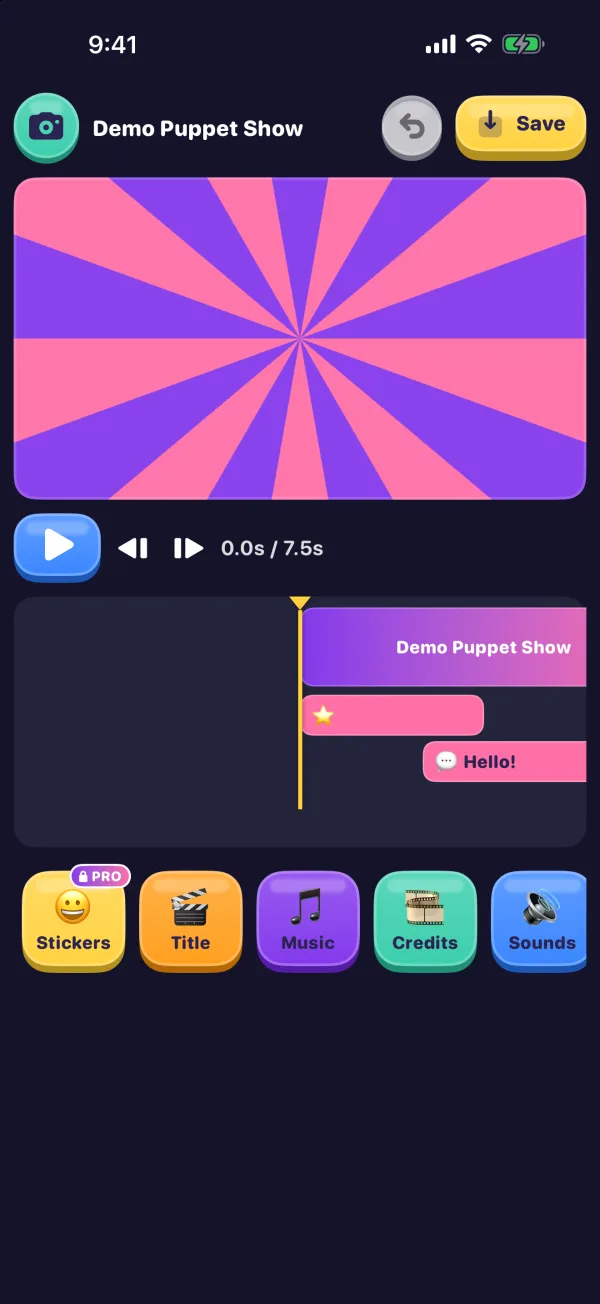
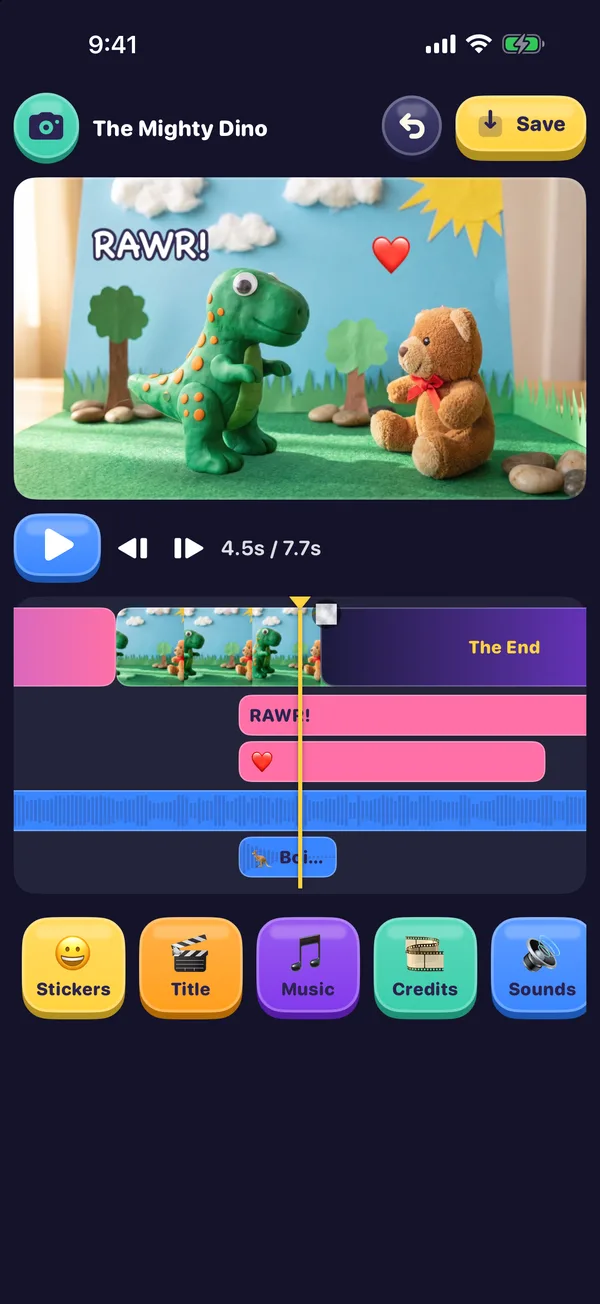
Show the App Store screenshots and the Mighty Dino footage
- The gallery is now the listing's six screenshots, in listing order,
  at 720 wide, with alt text that reads their headlines and screens.
  The home page's JSON-LD lists them as the app's screenshots.
- The hero's phones, the stage photo (Big screen, Free and Pro cards)
  and the Auto Snap crop come from the raw screens and toy-set photo
  behind those screenshots, replacing the Simulator's cartoon stage.
- og-image.jpg is rebuilt with the new screens and says "Free on the
  App Store." instead of "Coming soon."
- The five Simulator screens nothing uses any more are gone, and the
  README says where each image comes from.

diff --git a/index.html b/index.html
@@ -42,6 +42,14 @@
     "downloadUrl": "https://apps.apple.com/us/app/stop-motion-movie-maker/id6815898667",
     "installUrl": "https://apps.apple.com/us/app/stop-motion-movie-maker/id6815898667",
     "offers": { "@type": "Offer", "price": "0", "priceCurrency": "USD" },
+    "screenshot": [
+      "https://stopmotionmoviemaker.com/assets/img/shot-01-turn-toys-into-movies.webp",
+      "https://stopmotionmoviemaker.com/assets/img/shot-02-upright-or-sideways.webp",
+      "https://stopmotionmoviemaker.com/assets/img/shot-03-no-hands-in-the-shot.webp",
+      "https://stopmotionmoviemaker.com/assets/img/shot-04-make-it-a-real-movie.webp",
+      "https://stopmotionmoviemaker.com/assets/img/shot-05-roll-the-credits.webp",
+      "https://stopmotionmoviemaker.com/assets/img/shot-06-screen-time-well-spent.webp"
+    ],
     "author": { "@type": "Organization", "name": "CaLa Studios LLC", "email": "support@calastudios.app" }
   }
   </script>
@@ -98,7 +106,7 @@
         </div>
         <div class="hero-visual" aria-hidden="true">
           <div class="phone phone--a"><img src="/assets/img/screen-capture.webp" alt="" width="600" height="1304" fetchpriority="high"></div>
-          <div class="phone phone--b"><img src="/assets/img/screen-credits.webp" alt="" width="600" height="1304" fetchpriority="high"></div>
+          <div class="phone phone--b"><img src="/assets/img/screen-editor.webp" alt="" width="600" height="1304" fetchpriority="high"></div>
           <div class="chip chip--tl"><span class="dot">👻</span>The ghost shows your last picture</div>
           <div class="chip chip--br"><span class="dot">✋</span>Auto Snap waits for hands</div>
         </div>
@@ -177,7 +185,7 @@
               <p>Move something, take your hands away, and Auto Snap takes the picture once everything holds still, then plays the camera sound. Nobody has to touch the phone, so it never wobbles.</p>
               <p>It won't take the same picture twice, and it waits while a hand is still in the picture. The hand check runs on your iPhone with Apple's Vision. Snap and Oops keep working the whole time.</p>
             </div>
-            <div class="shot-frame"><img src="/assets/img/autosnap-hand.webp" alt="Auto Snap in the app: a hand is still holding the purple puppet, and the app says “Hands away when you're done”" width="800" height="448" loading="lazy"></div>
+            <div class="shot-frame"><img src="/assets/img/autosnap-hand.webp" alt="Auto Snap in the app: a hand is still holding the clay dinosaur, and the app says “Hands away when you're done”" width="800" height="450" loading="lazy"></div>
           </article>
 
           <article class="card span-2 reveal">
@@ -388,14 +396,13 @@
         </div>
       </div>
       <div class="container">
-        <ul class="shots" aria-label="Screens from the app">
-          <li><figure class="shot"><img src="/assets/img/screen-onboarding.webp" alt="The first screen: a teddy bear and “Move your puppet a tiny bit”" width="600" height="1304" loading="lazy"><figcaption>Three steps to learn it</figcaption></figure></li>
-          <li><figure class="shot"><img src="/assets/img/screen-capture.webp" alt="The camera screen: the live stage, the last four pictures, a big green SNAP button and Oops, Play, Ghost and Done" width="600" height="1304" loading="lazy"><figcaption>Snap, Oops, Play, Ghost, Done</figcaption></figure></li>
-          <li><figure class="shot"><img src="/assets/img/screen-autosnap.webp" alt="Auto Snap waiting while a hand is still in the picture" width="600" height="1304" loading="lazy"><figcaption>Auto Snap waits for hands</figcaption></figure></li>
-          <li><figure class="shot"><img src="/assets/img/screen-editor.webp" alt="The editor: a title card, the timeline, and buttons for Stickers, Title, Music, Credits and Sounds" width="600" height="1304" loading="lazy"><figcaption>Decorate your movie</figcaption></figure></li>
-          <li><figure class="shot"><img src="/assets/img/screen-titles.webp" alt="The Titles sheet: a live preview of the opening title with backgrounds, colors and letters to choose from" width="600" height="1304" loading="lazy"><figcaption>A title with a live preview</figcaption></figure></li>
-          <li><figure class="shot"><img src="/assets/img/screen-credits.webp" alt="Rolling credits: Directed by Maya, Starring T-Rex and Mr. Bear, with the song credited" width="600" height="1304" loading="lazy"><figcaption>Rolling credits</figcaption></figure></li>
-          <li><figure class="shot"><img src="/assets/img/screen-music.webp" alt="The Music sheet: My Songs and the songs that come with the app" width="600" height="1304" loading="lazy"><figcaption>Songs, and your own</figcaption></figure></li>
+        <ul class="shots" aria-label="App Store screenshots">
+          <li class="shot"><img src="/assets/img/shot-01-turn-toys-into-movies.webp" alt="Turn toys into movies, easily: the camera screen with a clay dinosaur and a teddy bear on the stage, the last four pictures, the big SNAP button, and Oops, Play, Ghost and Done" width="720" height="1558" loading="lazy"></li>
+          <li class="shot"><img src="/assets/img/shot-02-upright-or-sideways.webp" alt="Upright or sideways, works both ways: the camera screen on an iPhone held upright and on its side" width="720" height="1558" loading="lazy"></li>
+          <li class="shot"><img src="/assets/img/shot-03-no-hands-in-the-shot.webp" alt="No hands in the shot, snaps when you let go: Auto Snap waits while a hand moves the dinosaur, saying “Hands away when you're done”" width="720" height="1558" loading="lazy"></li>
+          <li class="shot"><img src="/assets/img/shot-04-make-it-a-real-movie.webp" alt="Make it a real movie, add in music, sounds and text: the editor with “RAWR!” and a heart over the scene, the timeline, and Stickers, Title, Music, Credits and Sounds" width="720" height="1558" loading="lazy"></li>
+          <li class="shot"><img src="/assets/img/shot-05-roll-the-credits.webp" alt="Roll the credits, directed by you: the credits sheet with Directed by Maya, Starring T-Rex and Mr. Bear, and the song" width="720" height="1558" loading="lazy"></li>
+          <li class="shot"><img src="/assets/img/shot-06-screen-time-well-spent.webp" alt="Screen time well spent, no ads, ever: My Movies, with The Mighty Dino, Robot to the Rescue, Octopus Party, Space Cat and The Great Snail Race" width="720" height="1558" loading="lazy"></li>
         </ul>
         <details class="credits">
           <summary>Sound and music credits</summary>

diff --git a/assets/css/site.css b/assets/css/site.css
@@ -414,12 +414,11 @@ h2.title { font-size: clamp(2.1rem, 4.4vw, 3.2rem); letter-spacing: -0.02em; }
 }
 .shots::-webkit-scrollbar { height: 8px; }
 .shots::-webkit-scrollbar-thumb { background: rgba(255, 210, 63, 0.45); border-radius: 999px; }
-.shot { flex: 0 0 auto; width: min(64vw, 240px); scroll-snap-align: start; margin: 0; }
-.shot img { width: 100%; height: auto; border-radius: 26px; border: 5px solid #2e2c56; background: var(--stage); }
-.shot figcaption { margin-top: 12px; text-align: center; font-weight: 800; font-size: 0.95rem; line-height: 1.3; color: rgba(255, 248, 231, 0.88); }
+.shot { flex: 0 0 auto; width: min(64vw, 260px); scroll-snap-align: start; border-radius: 22px; overflow: hidden; }
+.shot img { width: 100%; height: auto; }
 @media (min-width: 1200px) {
   .shots { justify-content: center; padding-inline: 0; margin-inline: 0; }
-  .shot { width: calc((var(--container) - 6 * 18px) / 7); }
+  .shot { width: calc((var(--container) - 5 * 18px) / 6); }
 }
 .credits { margin-top: 8px; color: rgba(255, 248, 231, 0.7); font-size: 0.9rem; }
 .credits summary { cursor: pointer; display: inline-block; font-weight: 800; color: rgba(255, 248, 231, 0.85); }

diff --git a/README.md b/README.md
@@ -33,7 +33,7 @@ GitHub Pages serves `support.html` at `/support` (and `/support.html`), so the e
 
 - `assets/css/site.css` – the one stylesheet, shared by every page. Light only, like the app's kid screens. Colors are the hex values from the app's `Theme.swift`: Cream `#FFF8E7` canvas, Ink `#2B2350` text, Night `#1B1A3A` bands, and the seven candy colors with one job each (Grass Snap, Tomato Oops, Sky Play, Grape Ghost, Sunny Done, Bubblegum Edit, Tangerine). Grape is the only candy color used for text (5.3:1 on cream). Buttons are drawn as the app's candy buttons, on a lip that is the app's `shaded(-0.3)` of their color.
 - `assets/js/site.js` – mobile nav, scroll reveal, footer year. No dependencies.
-- `assets/img/` – app icon sizes (`icon-*`, from the app's `AppIcon.png`), raw device screens (`screen-*.webp`), two crops of the camera stage (`stage.webp`, clean; `autosnap-hand.webp`, with Auto Snap waiting for a hand), Apple's App Store badge and `og-image.jpg` for link previews.
+- `assets/img/` – app icon sizes (`icon-*`, from the app's `AppIcon.png`), the six App Store screenshots in listing order (`shot-0N-*.webp`, the gallery), the camera and editor screens behind them (`screen-*.webp`, the hero's phones), the toy-set photo as the clean stage (`stage.webp`), the Auto Snap screen's stage with a hand in it (`autosnap-hand.webp`), Apple's App Store badge and `og-image.jpg` for link previews.
 - `assets/fonts/` – Nunito, subset to Latin with weights 500–900 as one variable WOFF2 (SIL OFL, license alongside). The font stack puts `ui-rounded` first, so Safari on Apple devices uses SF Pro Rounded, the app's own typeface, and only other browsers download Nunito.
 - The five button glyphs (camera, back arrow, play, dashed circle, check) are an inline SVG sprite at the top of `index.html`, drawn after the app's SF Symbols. The "come alive!" sticker and the free-movie badge follow `Watermark.swift`: rainbow letters on a navy face over a rainbow lip, tilted 3°.
 - `sitemap.xml`, `robots.txt`, `site.webmanifest` – the usual metadata.
@@ -46,7 +46,7 @@ Edit the HTML, commit to `main`, push. Pages redeploys in about a minute.
 
 Feature copy follows the build that is live in the App Store, not what is in development. The counts on the landing page (54 sound effects, 9 songs, 11 looks) come from the app's `Resources/sounds.json` and the `Look` enum in `Model/Timeline.swift`; update them when those change. The privacy policy describes an app that collects nothing and makes no network connections, asks for the camera, the microphone (voice-over only), add-only Photos and Media & Apple Music (adding a song from the Music app), and imports through the system photo and file pickers; change the policy and its effective date before a change to any of that ships.
 
-To regenerate images: the screens come from the Simulator, which uses the app's simulated camera, with the debug launch arguments from the app's README, for example `xcrun simctl launch booted app.calastudios.stopmotion-camera -ResetLibrary YES -SeedProject demo -OpenScreen capture` (then `-OpenScreen editor`, `-Autopilot credits`, `-OpenTool titles`, `-OpenTool music -SeedSongs YES`, `-Autopilot autosnap`). They are iPhone 17 Pro Max screenshots (1320×2868) resized to 600 wide and encoded with `cwebp -q 82`. `og-image.jpg` is a 1200×630 HTML composition rendered with headless Chrome.
+To regenerate images: everything comes from the v1.0 App Store set, so the site shows what the listing shows. The `shot-*` files are the listing's 6.5″ iPhone screenshots (1242×2688), resized to 720 wide. The `screen-*` files and the two stage crops come from the raw sources behind them (`source/app-screens/` and `source/photos/toy-set.png` in the App Store working folder): 1320×2868 screens resized to 600 wide, and 16:9 crops at 800×450 (`autosnap-hand.webp` is the stage of `autosnap.png`, x 36–1284, y 648–1350). All are encoded with `cwebp -q 82`. When the screenshots change, swap the `shot-*` files and their alt text together. `og-image.jpg` is a 1200×630 HTML composition (site.css, the icon, the headline and the two `screen-*` phones) rendered with headless Chrome.
 
 ### App Store
 
